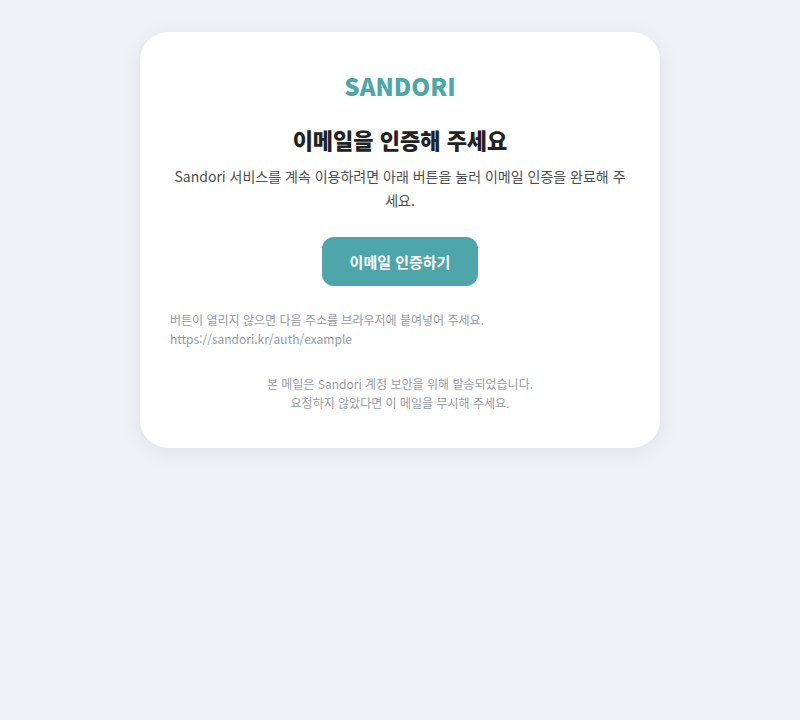
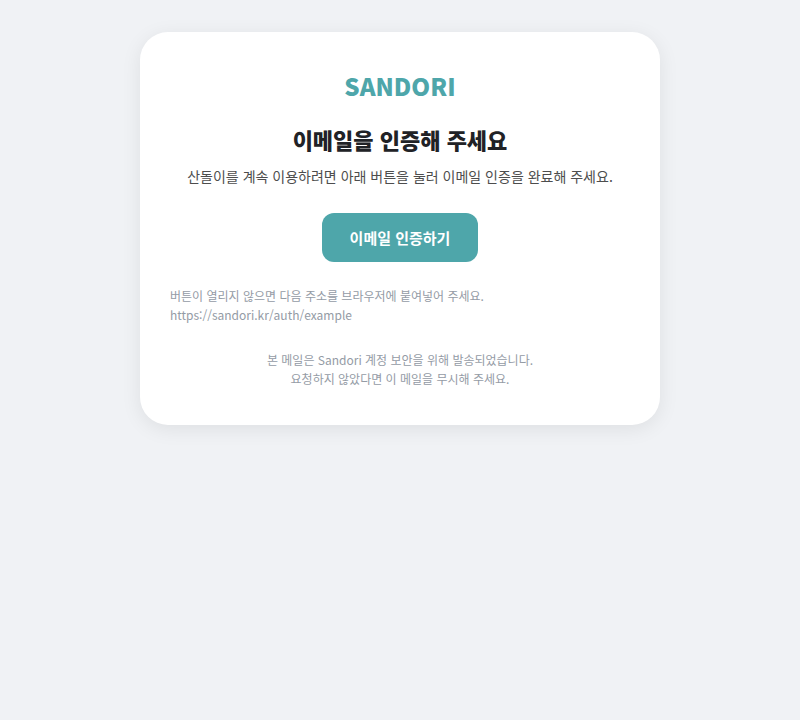
Replace Sandori service wording with Korean name

Changed region(s): [[0.1875, 0.2139, 0.8125, 0.6111]]

diff --git a/scripts/render-previews.py b/scripts/render-previews.py
@@ -61,7 +61,7 @@ def make_pages() -> dict[str, str]:
     verify = auth_card(
         "이메일을 확인해 주세요",
         "[email redacted] 주소로 인증 메일을 보냈습니다.",
-        '''<div class="sandori-info-card">인증 메일의 링크를 눌러야 Sandori 서비스를 계속 이용할 수 있습니다. 메일이 보이지 않으면 스팸함도 확인해 주세요.</div><form class="sandori-form"><button class="sandori-btn sandori-btn-login">인증 메일 다시 보내기</button></form><footer><div class="sandori-footer-link-block"><a href="#">로그인으로 돌아가기</a></div></footer>''',
+        '''<div class="sandori-info-card">인증 메일의 링크를 눌러야 산돌이를 계속 이용할 수 있습니다. 메일이 보이지 않으면 스팸함도 확인해 주세요.</div><form class="sandori-form"><button class="sandori-btn sandori-btn-login">인증 메일 다시 보내기</button></form><footer><div class="sandori-footer-link-block"><a href="#">로그인으로 돌아가기</a></div></footer>''',
         '<div class="sandori-status-icon sandori-status-mail">✉</div>',
     )
     error = auth_card(
@@ -88,7 +88,7 @@ def make_pages() -> dict[str, str]:
 <table role="presentation" width="100%" cellpadding="0" cellspacing="0" style="max-width:520px;background:#ffffff;border-radius:28px;padding:36px 30px;box-shadow:0 4px 20px rgba(0,0,0,.08);">
 <tr><td align="center" style="font-size:24px;font-weight:800;color:#4EA6AA;padding-bottom:20px;">SANDORI</td></tr>
 <tr><td style="font-size:22px;font-weight:800;text-align:center;padding-bottom:10px;">이메일을 인증해 주세요</td></tr>
-<tr><td style="font-size:14px;line-height:1.7;color:#4D4D4D;text-align:center;padding-bottom:24px;">Sandori 서비스를 계속 이용하려면 아래 버튼을 눌러 이메일 인증을 완료해 주세요.</td></tr>
+<tr><td style="font-size:14px;line-height:1.7;color:#4D4D4D;text-align:center;padding-bottom:24px;">산돌이를 계속 이용하려면 아래 버튼을 눌러 이메일 인증을 완료해 주세요.</td></tr>
 <tr><td align="center"><a href="#" style="display:inline-block;background:#4EA6AA;color:#ffffff;text-decoration:none;font-size:15px;font-weight:700;padding:14px 28px;border-radius:12px;">이메일 인증하기</a></td></tr>
 <tr><td style="font-size:12px;line-height:1.6;color:#949BA5;padding-top:24px;word-break:break-all;">버튼이 열리지 않으면 다음 주소를 브라우저에 붙여넣어 주세요.<br>https://sandori.kr/auth/example</td></tr>
 <tr><td style="padding-top:26px;font-size:12px;line-height:1.6;color:#949BA5;text-align:center;">본 메일은 Sandori 계정 보안을 위해 발송되었습니다.<br>요청하지 않았다면 이 메일을 무시해 주세요.</td></tr>